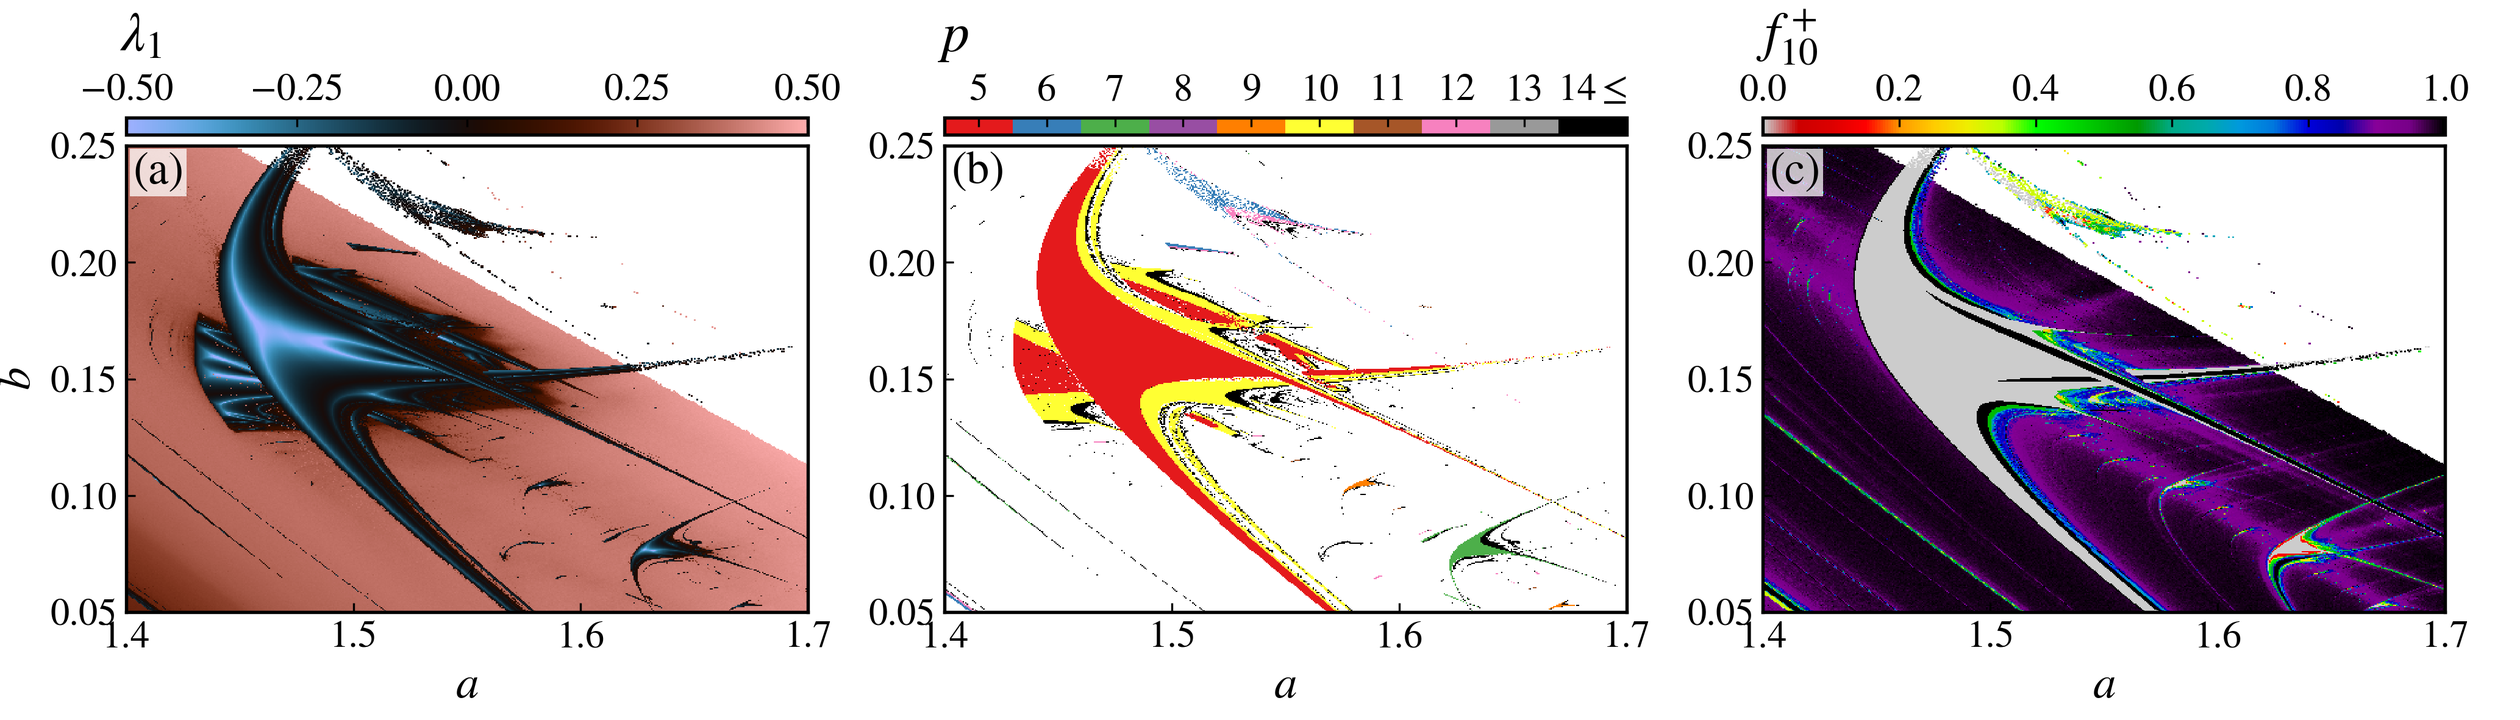
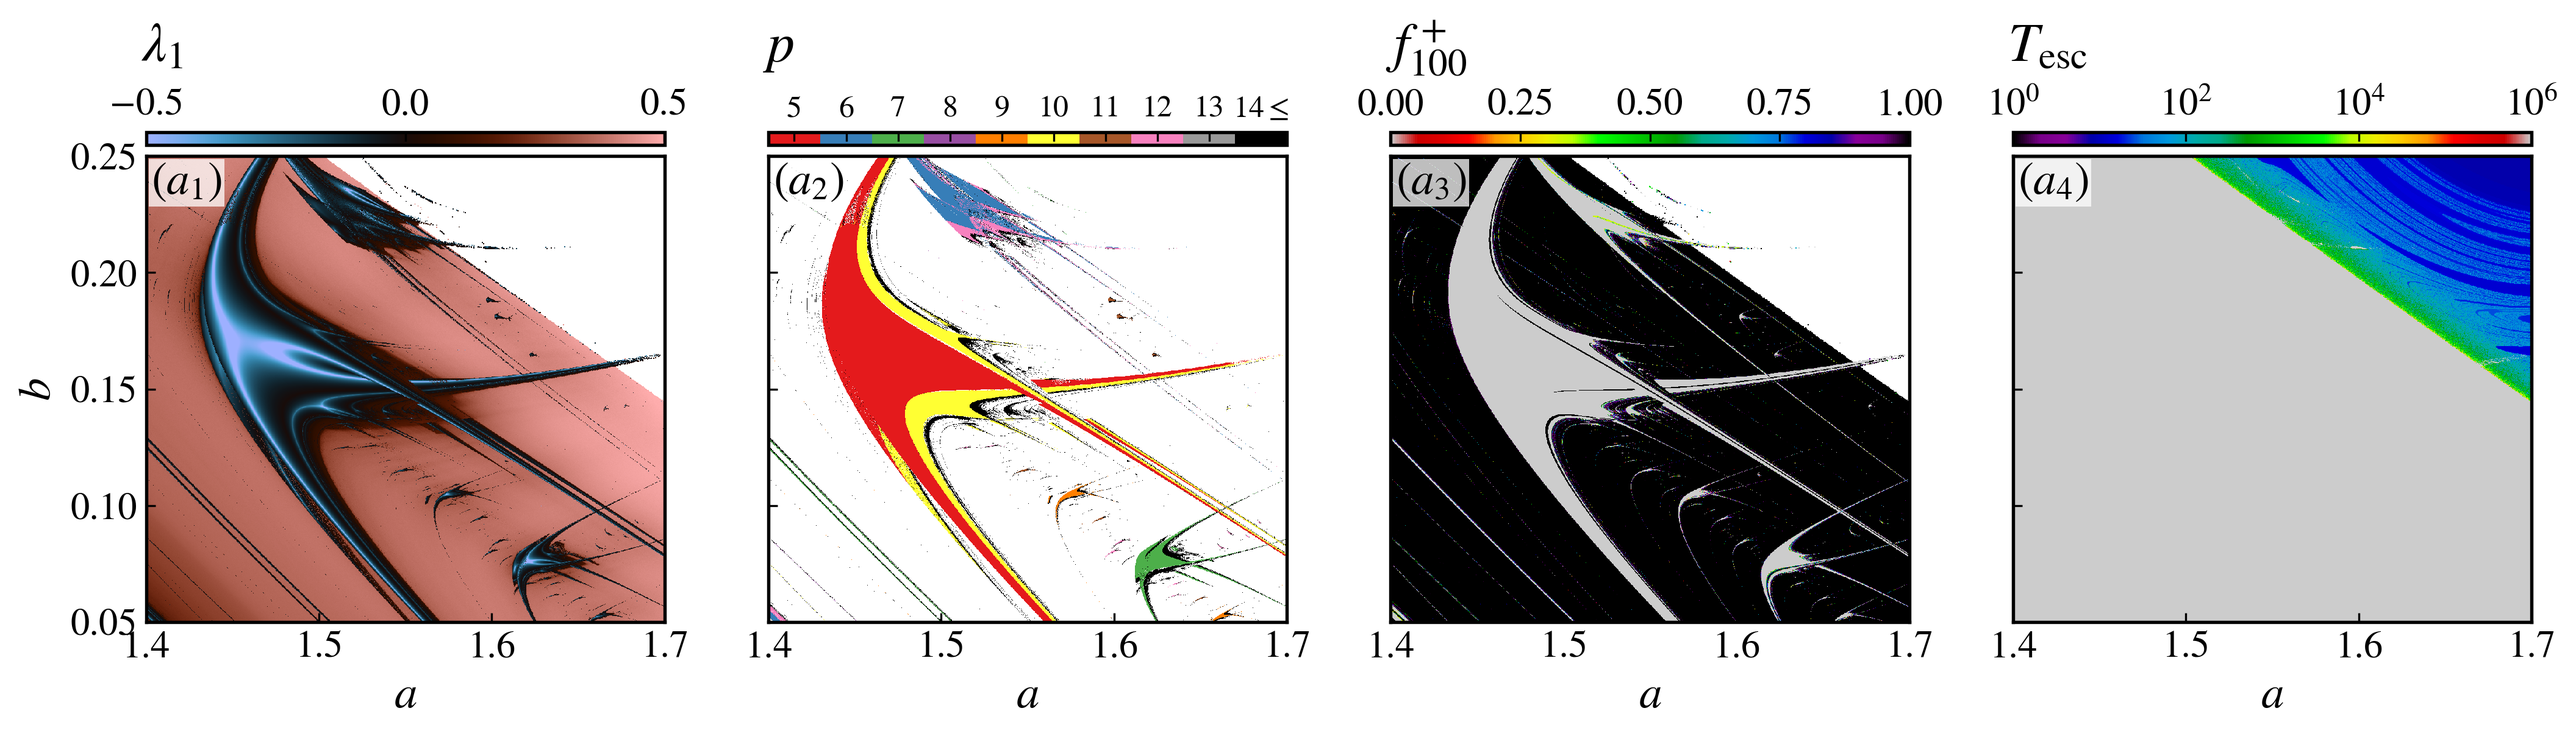
update: read-me

diff --git a/README.md b/README.md
@@ -95,12 +95,12 @@ The repository already includes the main scripts and rendered outputs used throu
 
 ![Basin entropy and uncertainty exponent as a function of the control parameter](figures/fig4_entropies_by_aparam.png)
 
-*Figure 4. Basin entropy, boundary entropy, fractal dimension, and basin stability computed as the control parameter varies. The highlighted regimes R1, R2, and R3 summarize the contrast between regular periodic behavior, escape dynamics, and riddled-basin-like behavior.*
+*Figure 4. Basin entropy, boundary entropy, fractal dimension, and basin stability computed as the control parameter varies. The highlighted regimes R1 and R2 summarize the contrast between regular periodic behavior at two different regions.*
 
 ### 5. Representative basin geometries
 
-![Representative basin geometries for R1, R2, and R3](figures/basins_combined_R1R2_revised.png)
+![Representative basin geometries for R1 and R2](figures/basins_combined_R1R2_revised.png)
 
 *Figure 5. Representative basin geometries for the three dynamical regimes together with the uncertainty-exponent fits. The left panels show the basins themselves, while the right panel compares the scaling of the uncertain fraction across the regimes.*
 
-Additional basin snapshots are available in [`figures/basins/`](figures/basins/), including the parameter values `a = 1.4600`, `a = 1.5000`, and `a = 1.5250`.
+Additional basin snapshots are available in [`figures/basins/`](figures/basins/), including the parameter values `a = 1.4600` and `a = 1.5250`.
